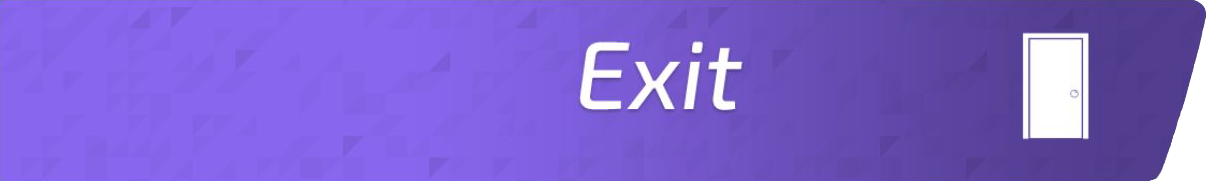
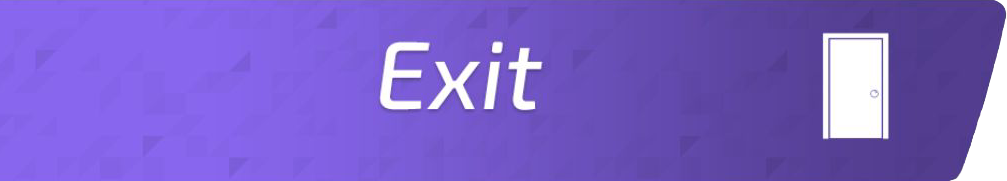
feat: Button effects in landing page

diff --git a/client/src/main/java/beat/osu/beatosu/view/landing/component/MenuButtons.java b/client/src/main/java/beat/osu/beatosu/view/landing/component/MenuButtons.java
@@ -2,12 +2,17 @@ package beat.osu.beatosu.view.landing.component;
 
 import beat.osu.beatosu.helper.CssManager;
 import beat.osu.beatosu.helper.ScreenManager;
+import javafx.animation.FadeTransition;
+import javafx.animation.ParallelTransition;
+import javafx.animation.TranslateTransition;
 import javafx.geometry.Pos;
 import javafx.scene.control.Button;
 import javafx.scene.image.Image;
 import javafx.scene.image.ImageView;
 import javafx.scene.layout.Region;
+import javafx.scene.layout.StackPane;
 import javafx.scene.layout.VBox;
+import javafx.util.Duration;
 
 import java.net.URL;
 
@@ -18,18 +23,13 @@ public class MenuButtons extends VBox {
     private Button menuExitButton;
 
     public MenuButtons() {
-        super(20);
+        super(25);
         this.getStyleClass().add("menu-box");
         this.setAlignment(Pos.CENTER_LEFT);
         this.setMaxWidth(Region.USE_PREF_SIZE);
 
-        // Initialize components
         initializeComponents();
-
-        // Set layout
         setupLayout();
-
-        // Load CSS
         loadStyles();
     }
 
@@ -60,23 +60,93 @@ public class MenuButtons extends VBox {
         Button button = new Button();
         try {
             String imagePath = "/assets/buttons/" + imageName;
+            String hoveredImageName = imageName.substring(0, imageName.lastIndexOf('.')) + "_hovered.png";
+            String hoveredImagePath = "/assets/buttons/" + hoveredImageName;
+            
             URL imageUrl = getClass().getResource(imagePath);
+            URL hoveredImageUrl = getClass().getResource(hoveredImagePath);
+            
             if (imageUrl == null) {
                 System.err.println("Image not found: " + imagePath);
                 button.setText(imageName.substring(0, imageName.lastIndexOf('.')));
             } else {
-                Image image = new Image(imageUrl.toExternalForm());
-                ImageView imageView = new ImageView(image);
-                imageView.setFitWidth(ScreenManager.SCREEN_HEIGHT / 1.67);
-                imageView.setPreserveRatio(true);
-                button.setGraphic(imageView);
+                Image normalImage = new Image(imageUrl.toExternalForm());
+                Image hoveredImage = null;
+                
+                ImageView normalImageView = new ImageView(normalImage);
+                normalImageView.setFitHeight(ScreenManager.SCREEN_HEIGHT / 12);
+                normalImageView.setPreserveRatio(true);
+                
+                ImageView hoveredImageView = new ImageView();
+                hoveredImageView.setFitHeight(ScreenManager.SCREEN_HEIGHT / 12);
+                hoveredImageView.setPreserveRatio(true);
+                hoveredImageView.setOpacity(0);
+                
+                StackPane imageStack = new StackPane();
+                imageStack.getChildren().addAll(normalImageView, hoveredImageView);
+                
+                button.setGraphic(imageStack);
                 button.setStyle("-fx-background-color: transparent; -fx-padding: 0; -fx-border-width: 0;");
+                
+                if (hoveredImageUrl != null) {
+                    hoveredImage = new Image(hoveredImageUrl.toExternalForm());
+                    hoveredImageView.setImage(hoveredImage);
+                    
+                    FadeTransition fadeOutNormal = new FadeTransition(Duration.millis(50), normalImageView);
+                    fadeOutNormal.setFromValue(1.0);
+                    fadeOutNormal.setToValue(0.0);
+                    
+                    FadeTransition fadeInHovered = new FadeTransition(Duration.millis(200), hoveredImageView);
+                    fadeInHovered.setFromValue(0.0);
+                    fadeInHovered.setToValue(1.0);
+                    
+                    FadeTransition fadeOutHovered = new FadeTransition(Duration.millis(200), hoveredImageView);
+                    fadeOutHovered.setFromValue(1.0);
+                    fadeOutHovered.setToValue(0.0);
+                    
+                    FadeTransition fadeInNormal = new FadeTransition(Duration.millis(50), normalImageView);
+                    fadeInNormal.setFromValue(0.0);
+                    fadeInNormal.setToValue(1.0);
+                    
+                    TranslateTransition bounceRight = new TranslateTransition(Duration.millis(200), button);
+                    bounceRight.setFromX(0);
+                    bounceRight.setToX(50);
+
+                    TranslateTransition bounceBack = new TranslateTransition(Duration.millis(200), button);
+                    bounceBack.setToX(0);
+
+                    ParallelTransition hoverInTransition = new ParallelTransition(
+                        new ParallelTransition(fadeOutNormal, fadeInHovered),
+                        bounceRight
+                    );
+                    
+                    ParallelTransition hoverOutTransition = new ParallelTransition(
+                        new ParallelTransition(fadeOutHovered, fadeInNormal),
+                        bounceBack
+                    );
+                    
+                    button.setOnMouseEntered(e -> {
+                        hoverInTransition.stop();
+                        hoverOutTransition.stop();
+                        button.setTranslateX(0);
+                        hoverInTransition.play();
+                    });
+                    
+                    button.setOnMouseExited(e -> {
+                        hoverInTransition.stop();
+                        hoverOutTransition.stop();
+                        bounceBack.setFromX(button.getTranslateX());
+                        hoverOutTransition.play();
+                    });
+                } else {
+                    System.out.println("Hovered image not found: " + hoveredImagePath + " (using normal image only)");
+                }
             }
         } catch (Exception e) {
             System.err.println("Error loading image " + imageName + ": " + e.getMessage());
             button.setText(imageName.substring(0, imageName.lastIndexOf('.')));
         }
-        button.getStyleClass().add("menu-button"); // Keep existing style class for other potential styling
+        button.getStyleClass().add("menu-button");
         return button;
     }
 

diff --git a/client/src/main/java/beat/osu/beatosu/view/landing/LandingView.java b/client/src/main/java/beat/osu/beatosu/view/landing/LandingView.java
@@ -42,8 +42,8 @@ public class LandingView extends Page {
     }
 
     private void initMenuRevealAnimations() {
-        double logoTranslateX = -this.visualizerSize / 3.7;
-        double menuTranslateX = this.visualizerSize / 1.5;
+        double logoTranslateX = -this.visualizerSize / 3.5;
+        double menuTranslateX = this.visualizerSize / 1.4;
 
         visualizerComponent.getLogoRayGroup().setCache(true);
         visualizerComponent.getLogoRayGroup().setCacheHint(CacheHint.SPEED);
@@ -102,7 +102,7 @@ public class LandingView extends Page {
         root = new StackPane();
         root.getStyleClass().add("main-layout");
 
-        this.visualizerSize = ScreenManager.SCREEN_HEIGHT * 0.67;
+        this.visualizerSize = ScreenManager.SCREEN_HEIGHT * 0.6;
 
         // --- Initialize Components ---
         mediaControlsComponent = new MediaControls();
